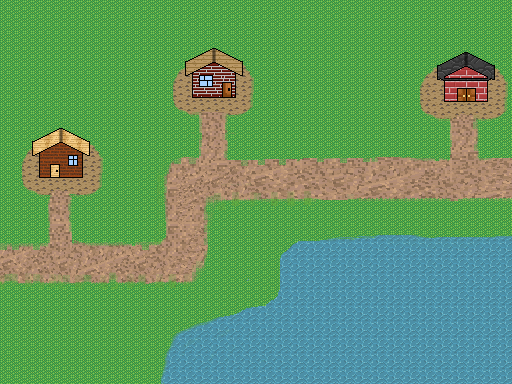
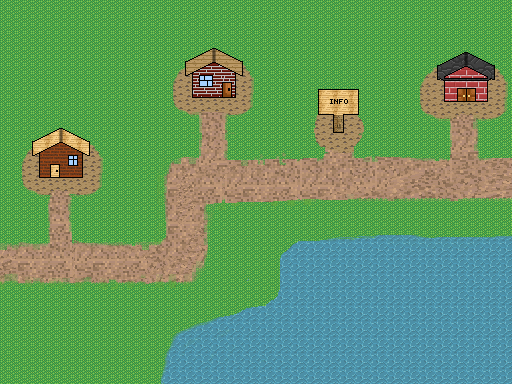
info section added!

Changed region(s): [[0.375, 0.2188, 0.7812, 0.5312], [0.0, 0.625, 0.2812, 0.75]]

diff --git a/src/app/info/page.js b/src/app/info/page.js
@@ -1,0 +1,67 @@
+'use client';
+
+import Image from 'next/image';
+import React from 'react';
+import Link from 'next/link';
+
+export default function Info() {
+  return (
+    <div className="p-8 max-w-4xl mx-auto space-y-8 relative">
+      {/* Back to Town Link */}
+      <Link href="/" className="absolute top-6 left-6 text-white text-sm sm:text-base z-10">
+        ← Back to Town
+      </Link>
+
+      {/* Thumbnail Image */}
+      <div className="w-full pt-12">
+        <Image
+          src="images/thumbnail.jpg"
+          alt="Page Thumbnail"
+          width={1200}
+          height={600}
+          className="w-full h-auto rounded-lg"
+        />
+      </div>
+
+      {/* Main Text */}
+      <div className="text-lg leading-relaxed">
+        <p>
+        <b><i>stomping ground</i></b> is an interactive web experience that gives you a unique perspective of spaces that
+shape and are shaped by the people who inhibit them. Told through the lens of the students themselves, this
+project captures the emotional nature of cohabitation and connection. Each participant explores the way they
+have made their space a home, and how being surrounded by your peers affects that. Through video, 360
+imaging and overlays, they reflect on the memories and connections that are facilitated by their spaces. Whether
+that be how furniture is rearranged to make room for more decorations, how walls are covered with reminders
+of family and friends, or how inside jokes become physical reminders. Rather than offering a singular
+narrative, <b><i>stomping ground</i></b> embraces multiplicity and personal experience. It prompts viewers to consider how
+environments are co-created and how, in the process, they become more than just places to live.
+        </p>
+      </div>
+
+      {/* Meet the Author Heading */}
+      <div className="mt-12">
+        <h2 className="text-xl font-semibold mb-4">Meet the Creator</h2>
+
+        {/* Author Section */}
+        <div className="flex flex-col sm:flex-row items-center gap-6">
+
+        <Link href="https://marvinromero.online" target="_blank" rel="noopener noreferrer">
+  <Image
+    src="/images/portrait.jpg"
+    alt="Author Portrait"
+    width={320}
+    height={320}
+    className="rounded-full object-cover transition-transform duration-300 hover:scale-110"
+  />
+</Link>
+          <div>
+            <h3 className="text-2xl font-semibold">Marvin Romero</h3>
+            <p className="text-md mt-1 text-gray-600">
+              Marvin is a creative technologist and storyteller who blends computer science with media design to build interactive projects across film, games, and the web. See more of his work at: <Link href="https://marvinromero.online" target="_blank" rel="noopener noreferrer" className="text-gray-400 hover:text-gray-600">marvinromero.online</Link>
+            </p>
+          </div>
+        </div>
+      </div>
+    </div>
+  );
+}

diff --git a/src/components/PhaserGame.js b/src/components/PhaserGame.js
@@ -54,15 +54,23 @@ const PhaserGame = () => {
         this.houseZone = this.add.zone(60, 185, 30, 30);
         this.houseZone2 = this.add.zone(216, 105, 30, 30);
         this.houseZone3 = this.add.zone(466.545, 110, 30, 20);
+
+        this.sign = this.add.zone(340,100,50,40);
+        this.physics.add.existing(this.sign, true);
+        this.physics.add.collider(this.player, this.sign);
+        this.signZone = this.add.zone(340,140,50,60);
+
         this.water1 = this.add.zone(400, 350, 455, 80);
         this.physics.add.existing(this.water1, true);
         this.physics.add.collider(this.player, this.water1);
+
         this.water2 = this.add.zone(505, 280, 450, 80);
         this.physics.add.existing(this.water2, true);
         this.physics.add.collider(this.player, this.water2);
+        
 
-        this.physics.world.enable([this.houseZone, this.houseZone2, this.houseZone3]);
-        [this.houseZone, this.houseZone2, this.houseZone3].forEach(zone => {
+        this.physics.world.enable([this.houseZone, this.houseZone2, this.houseZone3, this.signZone]);
+        [this.houseZone, this.houseZone2, this.houseZone3, this.signZone].forEach(zone => {
           zone.body.setAllowGravity(false);
           zone.body.moves = false;
         });
@@ -77,6 +85,7 @@ const PhaserGame = () => {
         this.physics.add.overlap(this.player, this.houseZone, () => { currentRoute.current = '/house1'; });
         this.physics.add.overlap(this.player, this.houseZone2, () => { currentRoute.current = '/house2'; });
         this.physics.add.overlap(this.player, this.houseZone3, () => { currentRoute.current = '/house3'; });
+        this.physics.add.overlap(this.player, this.signZone, () => {currentRoute.current = '/info';});
 
         this.wasd = {
           up: this.input.keyboard.addKeys({
@@ -187,13 +196,14 @@ const PhaserGame = () => {
           top: '20px',
           left: '50%',
           transform: 'translateX(-50%)',
-          color: 'white',
+          color: 'black',
           fontFamily: 'sans-serif',
           fontSize: '16px',
           zIndex: 10,
           pointerEvents: 'none',
+    
         }}>
-          Press <b>E</b> to enter a house
+          Press <b>E</b> to enter a house or interact
         </div>
       )}
 
